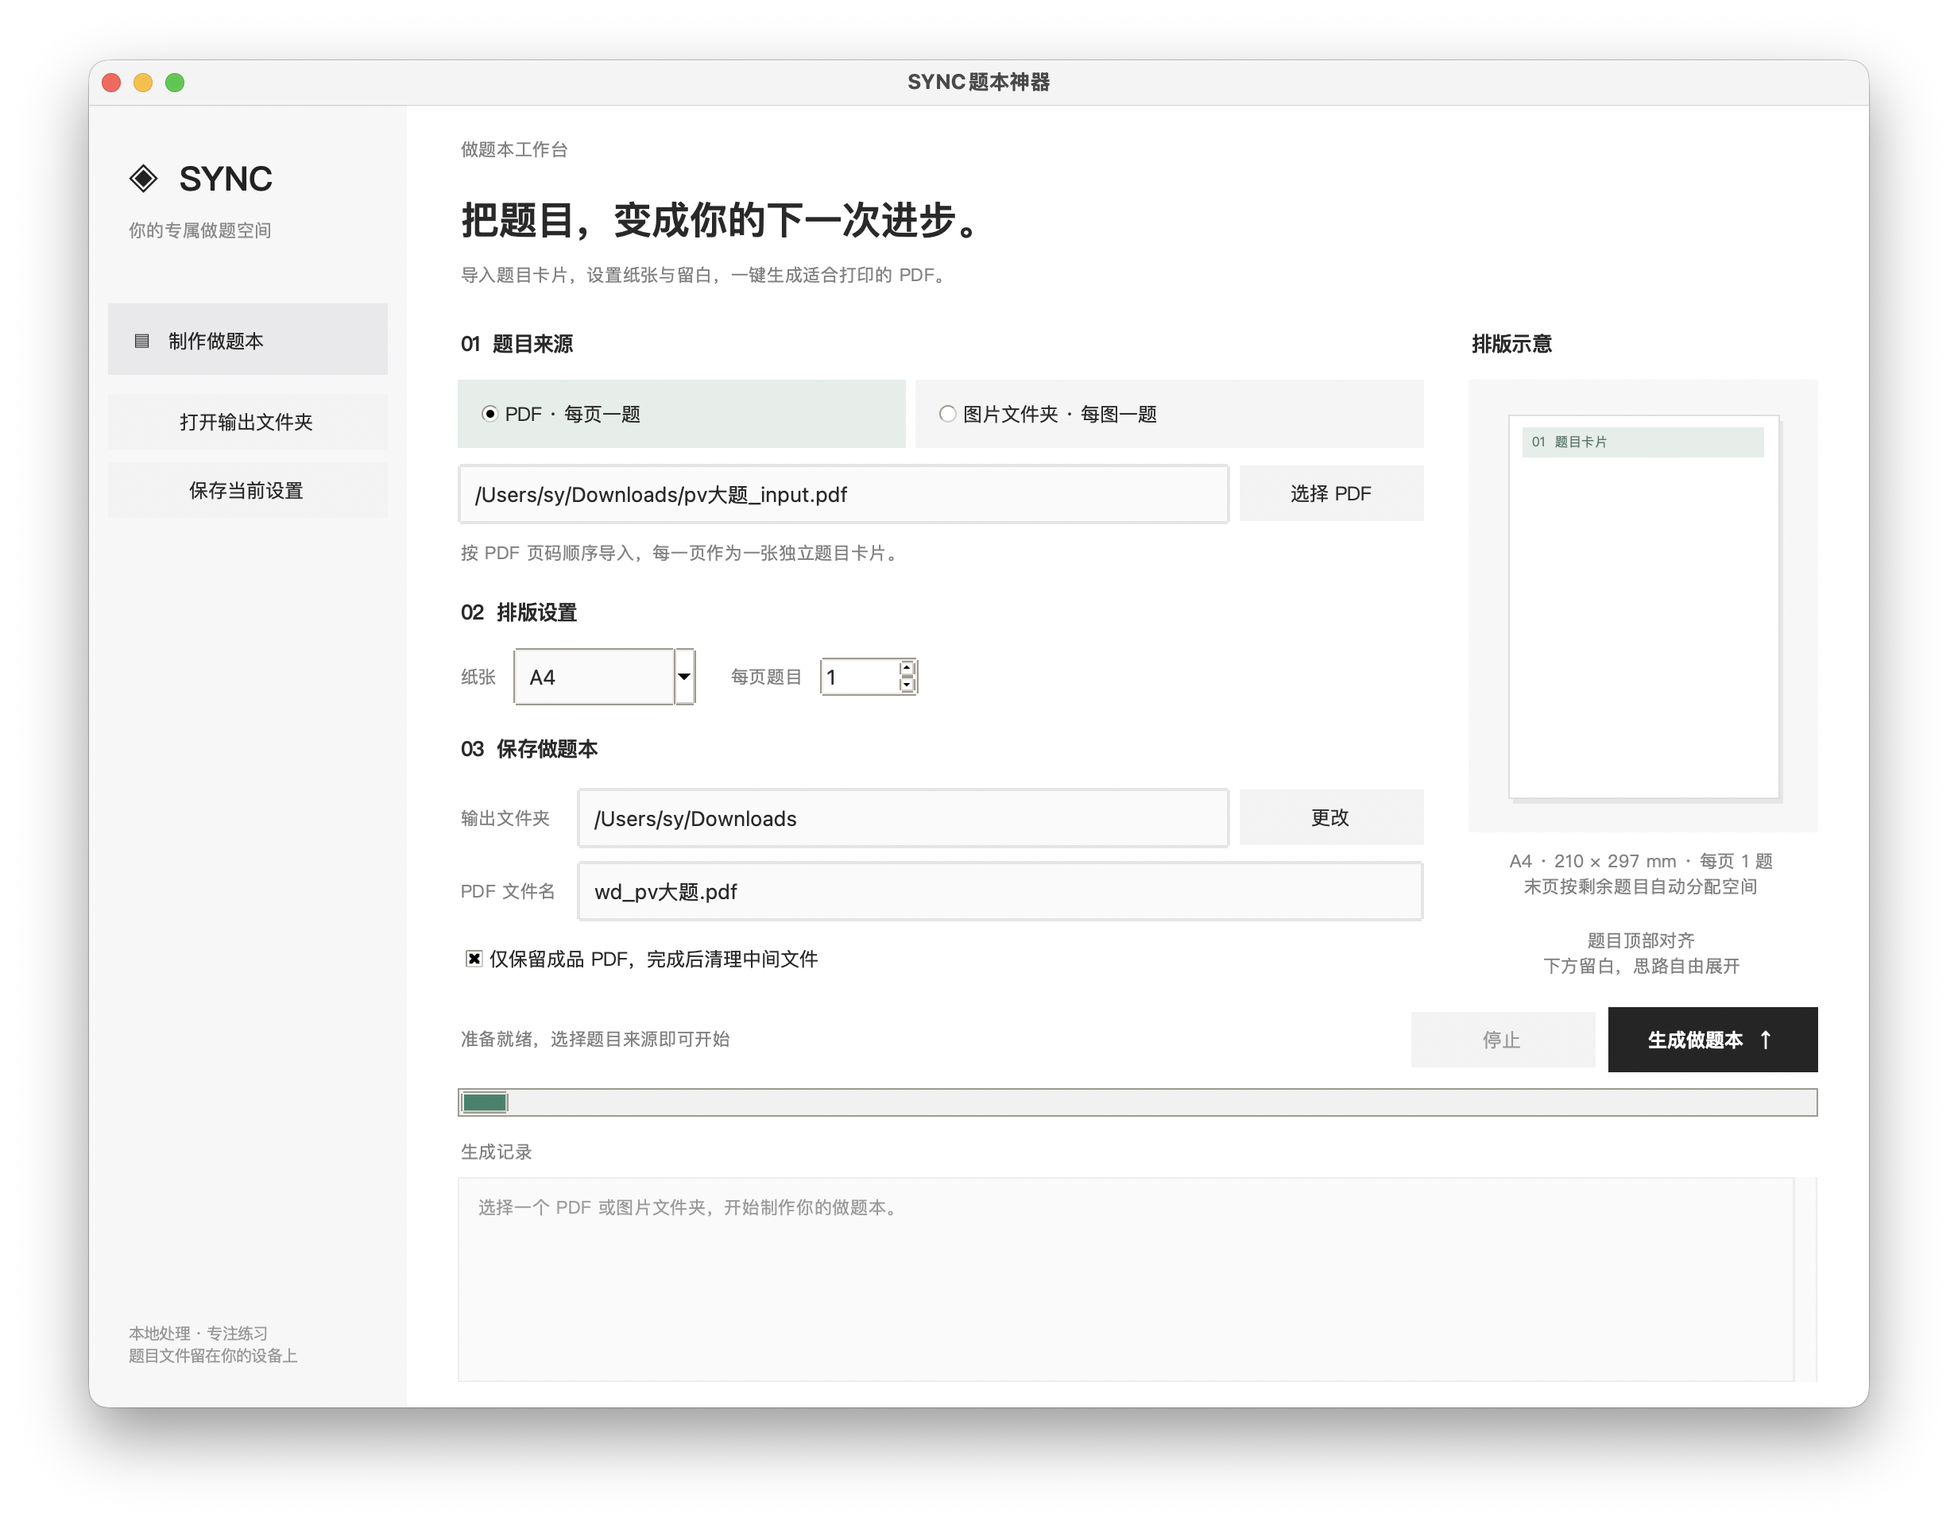
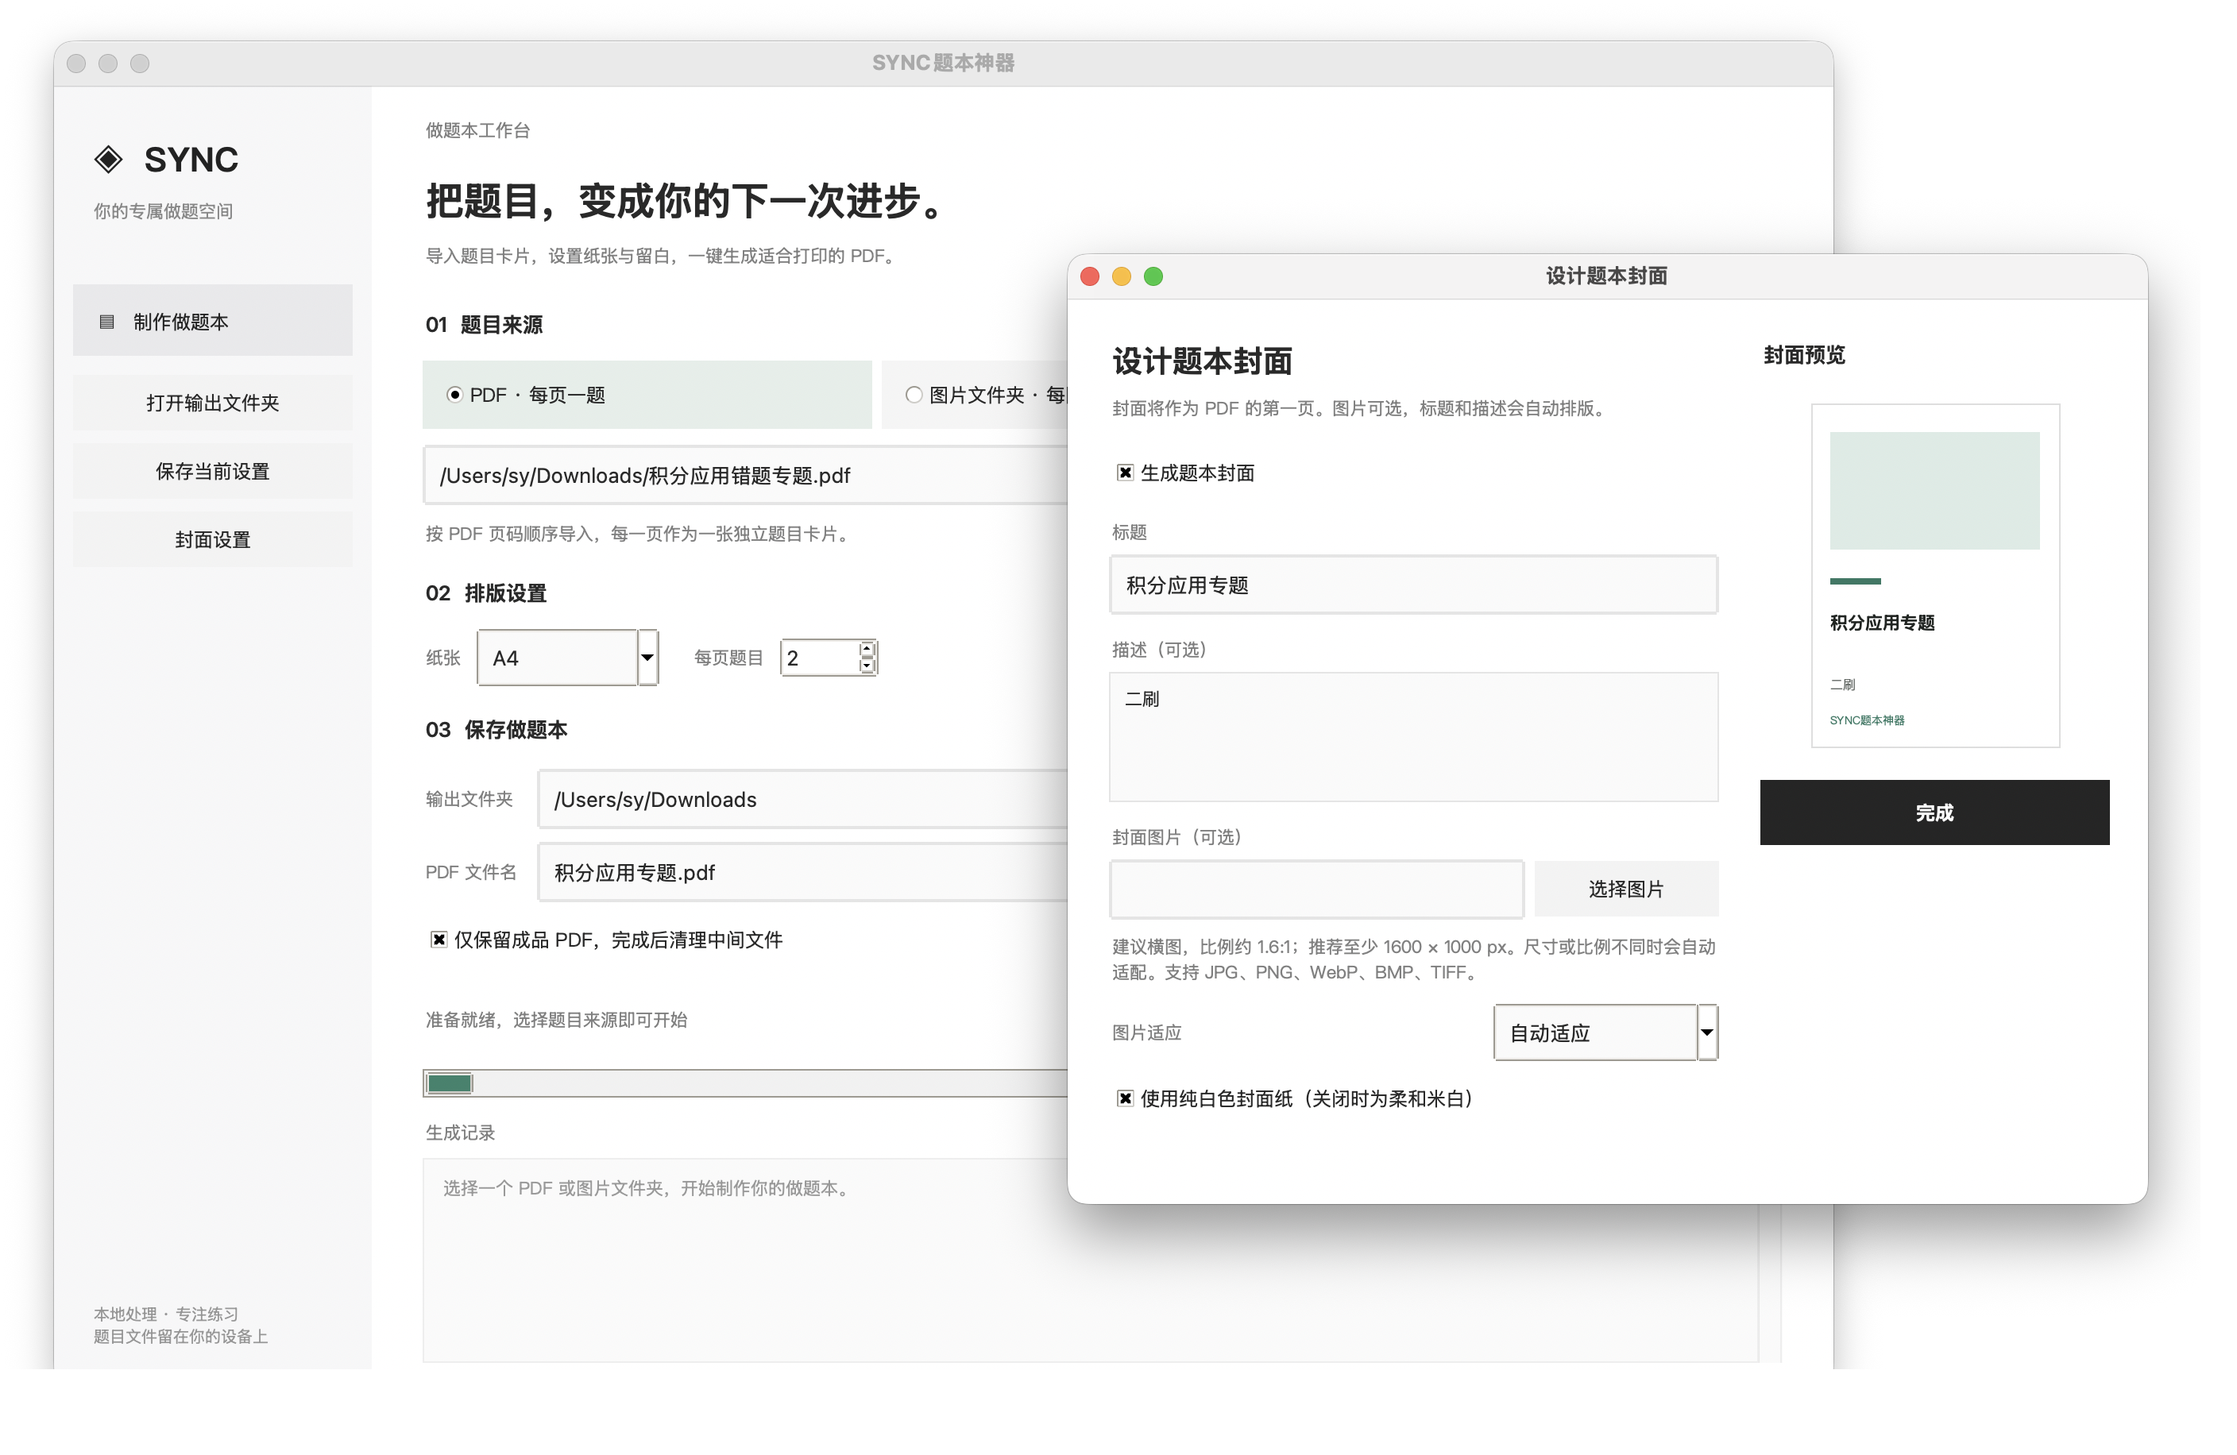
update readme

diff --git a/pdf_maker_gui.py b/pdf_maker_gui.py
@@ -53,6 +53,23 @@ if __name__ == "__main__" and "--cli" in sys.argv[1:]:
             config_path = Path(__file__).resolve().parent / "config.ini"
     sys.exit(0 if engine_main(str(config_path)) else 1)
 
+if __name__ == "__main__" and "--cli" not in sys.argv[1:]:
+    opened_pdfs = [Path(arg).expanduser() for arg in sys.argv[1:]
+                   if not arg.startswith("-") and Path(arg).expanduser().suffix.casefold() == ".pdf"]
+    if opened_pdfs:
+        from core.finder_open import run_opened_pdfs
+        if getattr(sys, "frozen", False):
+            data_root = (Path.home() / "Library" / "Application Support" if sys.platform == "darwin"
+                         else Path(os.environ.get("APPDATA", str(Path.home()))))
+            saved_config = data_root / "ZuotiBenPdfTool" / "config.ini"
+        else:
+            saved_config = Path(__file__).resolve().parent / "config.ini"
+        ok, outputs = run_opened_pdfs(opened_pdfs, saved_config)
+        if ok:
+            for folder in dict.fromkeys(output.parent for output in outputs):
+                subprocess.Popen(["open", str(folder)] if sys.platform == "darwin" else ["xdg-open", str(folder)])
+        sys.exit(0 if ok else 1)
+
 
 try:
     import tkinter as tk
@@ -136,6 +153,8 @@ DEFAULTS = {
         "标题": "我的做题本",
         "描述": "",
         "封面图片": "",
+        "图片适应方式": "自动适应",
+        "纯白色封面纸": "false",
     },
 }
 
@@ -403,6 +422,7 @@ class PdfMakerGUI:
         chosen = filedialog.askopenfilename(parent=self.root, initialdir=str(initial), title="选择题目 PDF（每页一题）", filetypes=[("PDF 文件", "*.pdf"), ("所有文件", "*.*")])
         if chosen:
             var.set(chosen)
+            self.vars[("路径设置", "pdf文件名")].set(Path(chosen).name)
 
     def _build_paper_frame(self, parent):
         frame = ttk.Frame(parent)
@@ -491,12 +511,18 @@ class PdfMakerGUI:
         self.var_cover_title = self._text_var("封面设置", "标题")
         self.var_cover_description = self._text_var("封面设置", "描述")
         self.var_cover_image = self._text_var("封面设置", "封面图片")
+        self.var_cover_image_mode = self._text_var("封面设置", "图片适应方式")
+        if self.var_cover_image_mode.get() not in ("自动适应", "裁切铺满", "完整显示"):
+            self.var_cover_image_mode.set("自动适应")
+        self.var_cover_white = tk.BooleanVar(value=self._bool_default("封面设置", "纯白色封面纸"))
         self.var_cover_summary = tk.StringVar()
         self.vars[("封面设置", "生成封面")] = self.var_cover_enabled
+        self.vars[("封面设置", "纯白色封面纸")] = self.var_cover_white
         self._cover_dialog = None
         self._cover_fields = []
         for var in (self.var_cover_enabled, self.var_cover_title,
-                    self.var_cover_description, self.var_cover_image):
+                    self.var_cover_description, self.var_cover_image,
+                    self.var_cover_image_mode, self.var_cover_white):
             var.trace_add("write", self._refresh_cover_summary)
         self._refresh_cover_summary()
 
@@ -540,7 +566,8 @@ class PdfMakerGUI:
             return
         c = self.cover_card
         c.delete("all")
-        c.create_rectangle(32, 8, 188, 224, fill="#f7f6f2", outline="#dedede")
+        paper_fill = "#ffffff" if self.var_cover_white.get() else "#f7f6f2"
+        c.create_rectangle(32, 8, 188, 224, fill=paper_fill, outline="#dedede")
         c.create_rectangle(44, 26, 176, 100, fill="#dcebe5" if not self.var_cover_image.get().strip() else "#bdd8cd", outline="")
         c.create_rectangle(44, 118, 76, 122, fill="#2e7964", outline="")
         title = self.var_cover_title.get().strip() or "我的做题本"
@@ -557,8 +584,8 @@ class PdfMakerGUI:
         dialog = tk.Toplevel(self.root)
         self._cover_dialog = dialog
         dialog.title("设计题本封面")
-        dialog.geometry("650x480")
-        dialog.minsize(600, 440)
+        dialog.geometry("680x570")
+        dialog.minsize(640, 540)
         dialog.configure(bg="#ffffff")
         dialog.transient(self.root)
         dialog.columnconfigure(0, weight=1)
@@ -589,8 +616,16 @@ class PdfMakerGUI:
         image.grid(row=0, column=0, sticky="ew", padx=(0, 6))
         choose = ttk.Button(image_row, text="选择图片", command=self._pick_cover_image)
         choose.grid(row=0, column=1)
-        hint = ttk.Label(form, text="支持 JPG、PNG、WebP、BMP、TIFF。图片会铺满封面上方视觉区。", style="Hint.TLabel", wraplength=360)
+        hint = ttk.Label(form, text="建议横图，比例约 1.6:1；推荐至少 1600 × 1000 px。尺寸或比例不同时会自动适配。支持 JPG、PNG、WebP、BMP、TIFF。", style="Hint.TLabel", wraplength=390)
         hint.pack(anchor="w", pady=(7, 0))
+        mode_row = ttk.Frame(form)
+        mode_row.pack(fill="x", pady=(10, 0))
+        ttk.Label(mode_row, text="图片适应", style="Hint.TLabel").pack(side="left")
+        image_mode = ttk.Combobox(mode_row, textvariable=self.var_cover_image_mode,
+                                  values=("自动适应", "裁切铺满", "完整显示"), state="readonly", width=12)
+        image_mode.pack(side="right")
+        white = ttk.Checkbutton(form, text="使用纯白色封面纸（关闭时为柔和米白）", variable=self.var_cover_white)
+        white.pack(anchor="w", pady=(10, 0))
         preview = ttk.Frame(dialog, padding=(8, 24, 24, 22))
         preview.grid(row=0, column=1, sticky="nsew")
         ttk.Label(preview, text="封面预览", style="Section.TLabel").pack(anchor="w")
@@ -599,7 +634,7 @@ class PdfMakerGUI:
         done = ttk.Button(preview, text="完成", style="Primary.TButton", command=dialog.withdraw)
         done.pack(fill="x")
         self._cover_enable_control = enabled
-        self._cover_fields = [title, description, image, choose]
+        self._cover_fields = [title, description, image, choose, image_mode, white]
         self.lock_widgets.extend([enabled, *self._cover_fields])
         dialog.protocol("WM_DELETE_WINDOW", dialog.withdraw)
         self._set_cover_dialog_state()
@@ -846,6 +881,7 @@ class PdfMakerGUI:
         if code == 0:
             self._log("🎉 运行完成！", "ok")
             self.var_status.set("已完成，做题本已保存到输出文件夹")
+            self.open_output_dir()
         else:
             self._log(f"❌ 运行结束，退出码 = {code}（详见上方日志）", "err")
             self.var_status.set("❌ 运行失败或已停止，请查看日志")

diff --git a/core/pdf_engine.py b/core/pdf_engine.py
@@ -171,30 +171,36 @@ def _wrap_cover_text(draw, text, font, max_width):
     return lines
 
 
-def _cover_image_as_rgb(image_path):
+def _cover_image_as_rgb(image_path, background="#f4f1eb"):
     """读取用户封面图，不改变原文件，并处理透明背景和照片方向。"""
     from PIL import Image, ImageOps
 
     with Image.open(image_path) as original:
         oriented = ImageOps.exif_transpose(original)
         rgba = oriented.convert("RGBA")
-        result = Image.new("RGB", rgba.size, "#f4f1eb")
+        result = Image.new("RGB", rgba.size, background)
         result.paste(rgba, mask=rgba.getchannel("A"))
         return result
 
 
-def _paste_cover_image(canvas, source, box):
+def _paste_cover_image(canvas, source, box, mode="自动适应"):
     """等比裁切填满封面视觉区。"""
     from PIL import Image
 
     left, top, right, bottom = box
     bw, bh = right - left, bottom - top
-    scale = max(bw / source.width, bh / source.height)
+    source_ratio = source.width / max(1, source.height)
+    target_ratio = bw / max(1, bh)
+    fit = mode in {"完整显示", "fit"} or (mode in {"自动适应", "auto", ""} and abs(source_ratio / target_ratio - 1) > .18)
+    scale = min(bw / source.width, bh / source.height) if fit else max(bw / source.width, bh / source.height)
     size = (max(1, round(source.width * scale)), max(1, round(source.height * scale)))
     fitted = source.resize(size, Image.LANCZOS)
-    x = (fitted.width - bw) // 2
-    y = (fitted.height - bh) // 2
-    canvas.paste(fitted.crop((x, y, x + bw, y + bh)), (left, top))
+    if fit:
+        canvas.paste(fitted, (left + (bw - fitted.width) // 2, top + (bh - fitted.height) // 2))
+    else:
+        x = (fitted.width - bw) // 2
+        y = (fitted.height - bh) // 2
+        canvas.paste(fitted.crop((x, y, x + bw, y + bh)), (left, top))
 
 
 def make_cover_image(config, output_folder):
@@ -214,9 +220,11 @@ def make_cover_image(config, output_folder):
     title = get_str(config, "封面设置", "标题", "").strip() or "我的做题本"
     description = get_str(config, "封面设置", "描述", "").strip()
     cover_image = get_str(config, "封面设置", "封面图片", "").strip()
+    image_mode = get_str(config, "封面设置", "图片适应方式", "自动适应").strip()
+    paper_background = "#ffffff" if get_bool(config, "封面设置", "纯白色封面纸", False) else "#f7f6f2"
     quality = get_int(config, "PDF参数", "pdf_质量", 85)
 
-    canvas = Image.new("RGB", (width, height), "#f7f6f2")
+    canvas = Image.new("RGB", (width, height), paper_background)
     draw = ImageDraw.Draw(canvas)
     accent = "#2e7964"
     soft_accent = "#dcebe5"
@@ -226,8 +234,8 @@ def make_cover_image(config, output_folder):
     visual_box = (margin, visual_top, width - margin, visual_top + visual_h)
 
     if cover_image:
-        source = _cover_image_as_rgb(cover_image)
-        _paste_cover_image(canvas, source, visual_box)
+        source = _cover_image_as_rgb(cover_image, paper_background)
+        _paste_cover_image(canvas, source, visual_box, image_mode)
         # 底部浅色渐变，让长标题始终清楚易读。
         for offset in range(round(visual_h * .45)):
             y = visual_box[3] - offset - 1

diff --git a/core/finder_open.py b/core/finder_open.py
@@ -1,0 +1,49 @@
+"""macOS Finder 打开方式的无窗口生成入口。"""
+import configparser
+import tempfile
+from pathlib import Path
+
+from .pdf_engine import engine_main
+
+
+def _build_job_config(saved_config_path, source_pdf):
+    config = configparser.ConfigParser(interpolation=None)
+    saved_config_path = Path(saved_config_path)
+    if saved_config_path.is_file():
+        config.read(saved_config_path, encoding="utf-8")
+    for section, values in {
+        "步骤控制": {"执行_pdf转图片": "true", "执行_排版页面": "true", "执行_合并pdf": "true"},
+        "路径设置": {},
+    }.items():
+        if not config.has_section(section):
+            config.add_section(section)
+        for key, value in values.items():
+            config.set(section, key, value)
+    source_pdf = Path(source_pdf).expanduser().resolve()
+    config.set("路径设置", "输入类型", "pdf")
+    config.set("路径设置", "输入pdf文件", str(source_pdf))
+    config.set("路径设置", "输出文件夹", str(source_pdf.parent))
+    config.set("路径设置", "pdf文件名", f"题本-{source_pdf.name}")
+    return config, source_pdf.parent / f"题本-{source_pdf.name}"
+
+
+def run_opened_pdfs(pdf_paths, saved_config_path):
+    outputs = []
+    config_dir = Path(saved_config_path).expanduser().parent
+    config_dir.mkdir(parents=True, exist_ok=True)
+    for raw_path in pdf_paths:
+        source = Path(raw_path).expanduser()
+        if not source.is_file() or source.suffix.casefold() != ".pdf":
+            return False, outputs
+        config, output = _build_job_config(saved_config_path, source)
+        temporary = tempfile.NamedTemporaryFile(mode="w", suffix=".ini", prefix="finder-job-", dir=config_dir, encoding="utf-8", delete=False)
+        temporary_path = Path(temporary.name)
+        try:
+            with temporary:
+                config.write(temporary)
+            if not engine_main(temporary_path):
+                return False, outputs
+            outputs.append(output)
+        finally:
+            temporary_path.unlink(missing_ok=True)
+    return True, outputs

diff --git a/README.md b/README.md
@@ -9,9 +9,13 @@
 
 ![SYNC题本神器项目插画](./assets/hero.png)
 
-**最新版应用界面**
+**现代化清爽界面**
 
 ![SYNC题本神器最新版：题目来源选择、纸张设置、排版示意与一键生成 PDF](./assets/ui-latest.png)
+
+右键pdf打开，无弹窗极速生成题本，效率拉满。
+
+![alt text](./assets/finder_right_click.png)
 
 最新版采用简洁浅色工作台，支持切换 PDF 和图片文件夹两种题目来源；右侧展示排版示意。
 
@@ -54,10 +58,10 @@
 2. 在「题目来源」选择「PDF · 每页一题」或「图片文件夹 · 每图一题」，选择对应文件或目录。
 3. 选择纸张和每页题目数（1–12）。右侧示意会同步更新；题目在各自区域顶部对齐，下方留白，末页按剩余题数分配空间。
 4. 如需封面，点击侧栏的「封面设置」，勾选「生成题本封面」，填写标题、可选描述，并可选择一张封面图片。没有图片时也会生成纯文字设计封面。
-5. 设置输出文件夹和成品名称，点击「生成做题本」。界面会自动执行完整流程，无需手动选择步骤。
+5. 设置输出文件夹和成品名称，点击「生成做题本」。界面会自动执行完整流程，无需手动选择步骤；选择 PDF 时成品名会默认跟随源文件名。生成成功后会自动打开输出文件夹。
 6. 完成后通过侧栏「打开输出文件夹」查看成品。
 
-生成的成品尺寸与所选纸张一致。开启封面后，它会成为 PDF 的第一页；标题最长 64 个字符，描述最长 240 个字符，封面图片支持 JPG、PNG、WebP、BMP、TIFF。来源文件与成品不能同名同路径；图片源目录位于输出 `layout/` 内时会提示换一个输出目录，避免覆盖原图。加密 PDF 需要先解锁。右侧显示的是排版示意，不是题目内容预览。
+生成的成品尺寸与所选纸张一致。开启封面后，它会成为 PDF 的第一页；标题最长 64 个字符，描述最长 240 个字符，封面图片支持 JPG、PNG、WebP、BMP、TIFF。封面设置中可选自动适应、裁切铺满或完整显示，建议图片比例约 1.6:1、尺寸至少 1600×1000 px，并可选纯白色封面纸。来源文件与成品不能同名同路径；图片源目录位于输出 `layout/` 内时会提示换一个输出目录，避免覆盖原图。加密 PDF 需要先解锁。右侧显示的是排版示意，不是题目内容预览。
 
 命令行仍支持通过 `config.ini` 控制各步骤。在 `[路径设置]` 中设置 `输入类型 = pdf` 或 `输入类型 = folder`，并填写 `输入pdf文件` 或 `输入文件夹`。封面可在 `[封面设置]` 中通过 `生成封面 = true` 开启，并填写 `标题`、`描述`、`封面图片`。旧配置未填写输入类型时，会根据原「执行_pdf转图片」开关推断。GUI 会记住选择，并在下次生成前保存设置。
 
